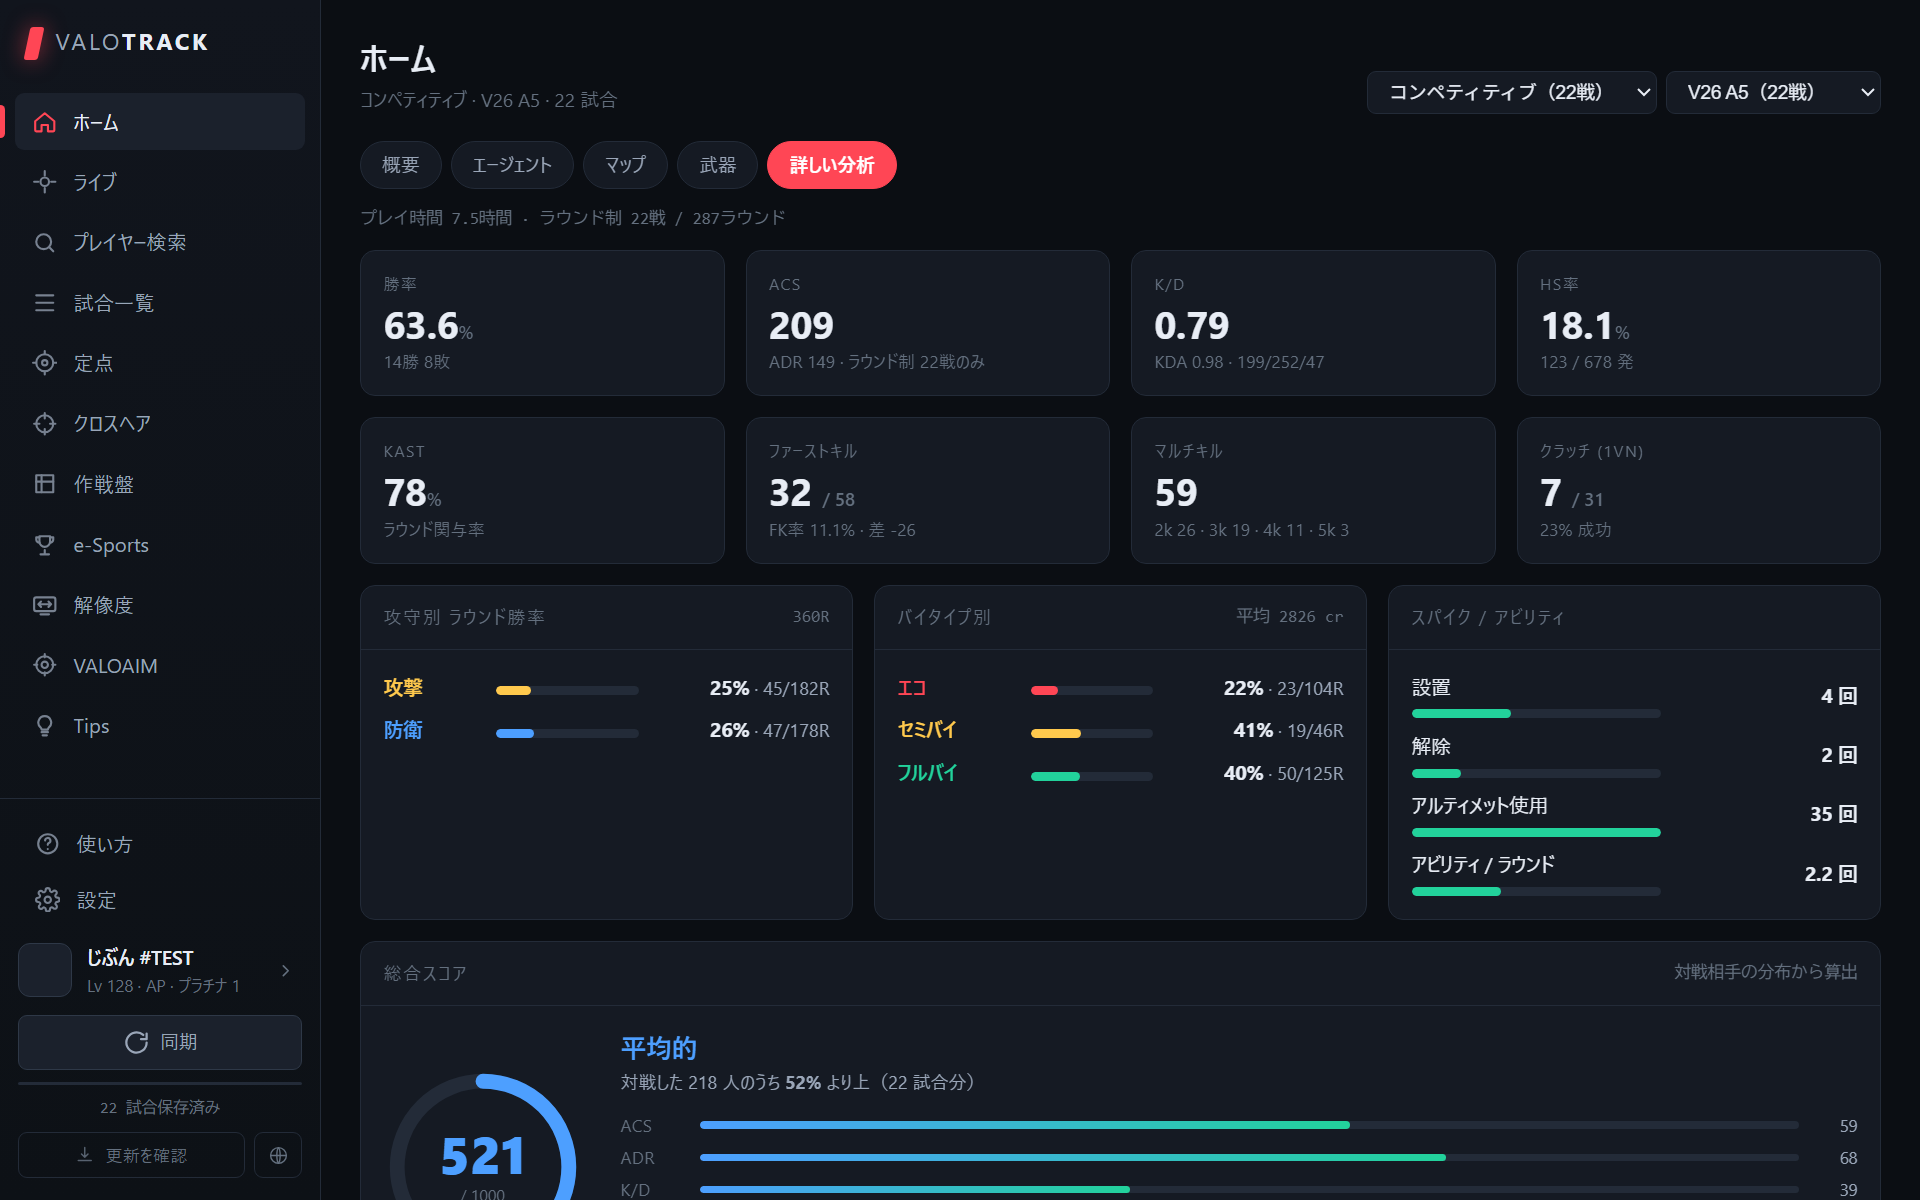
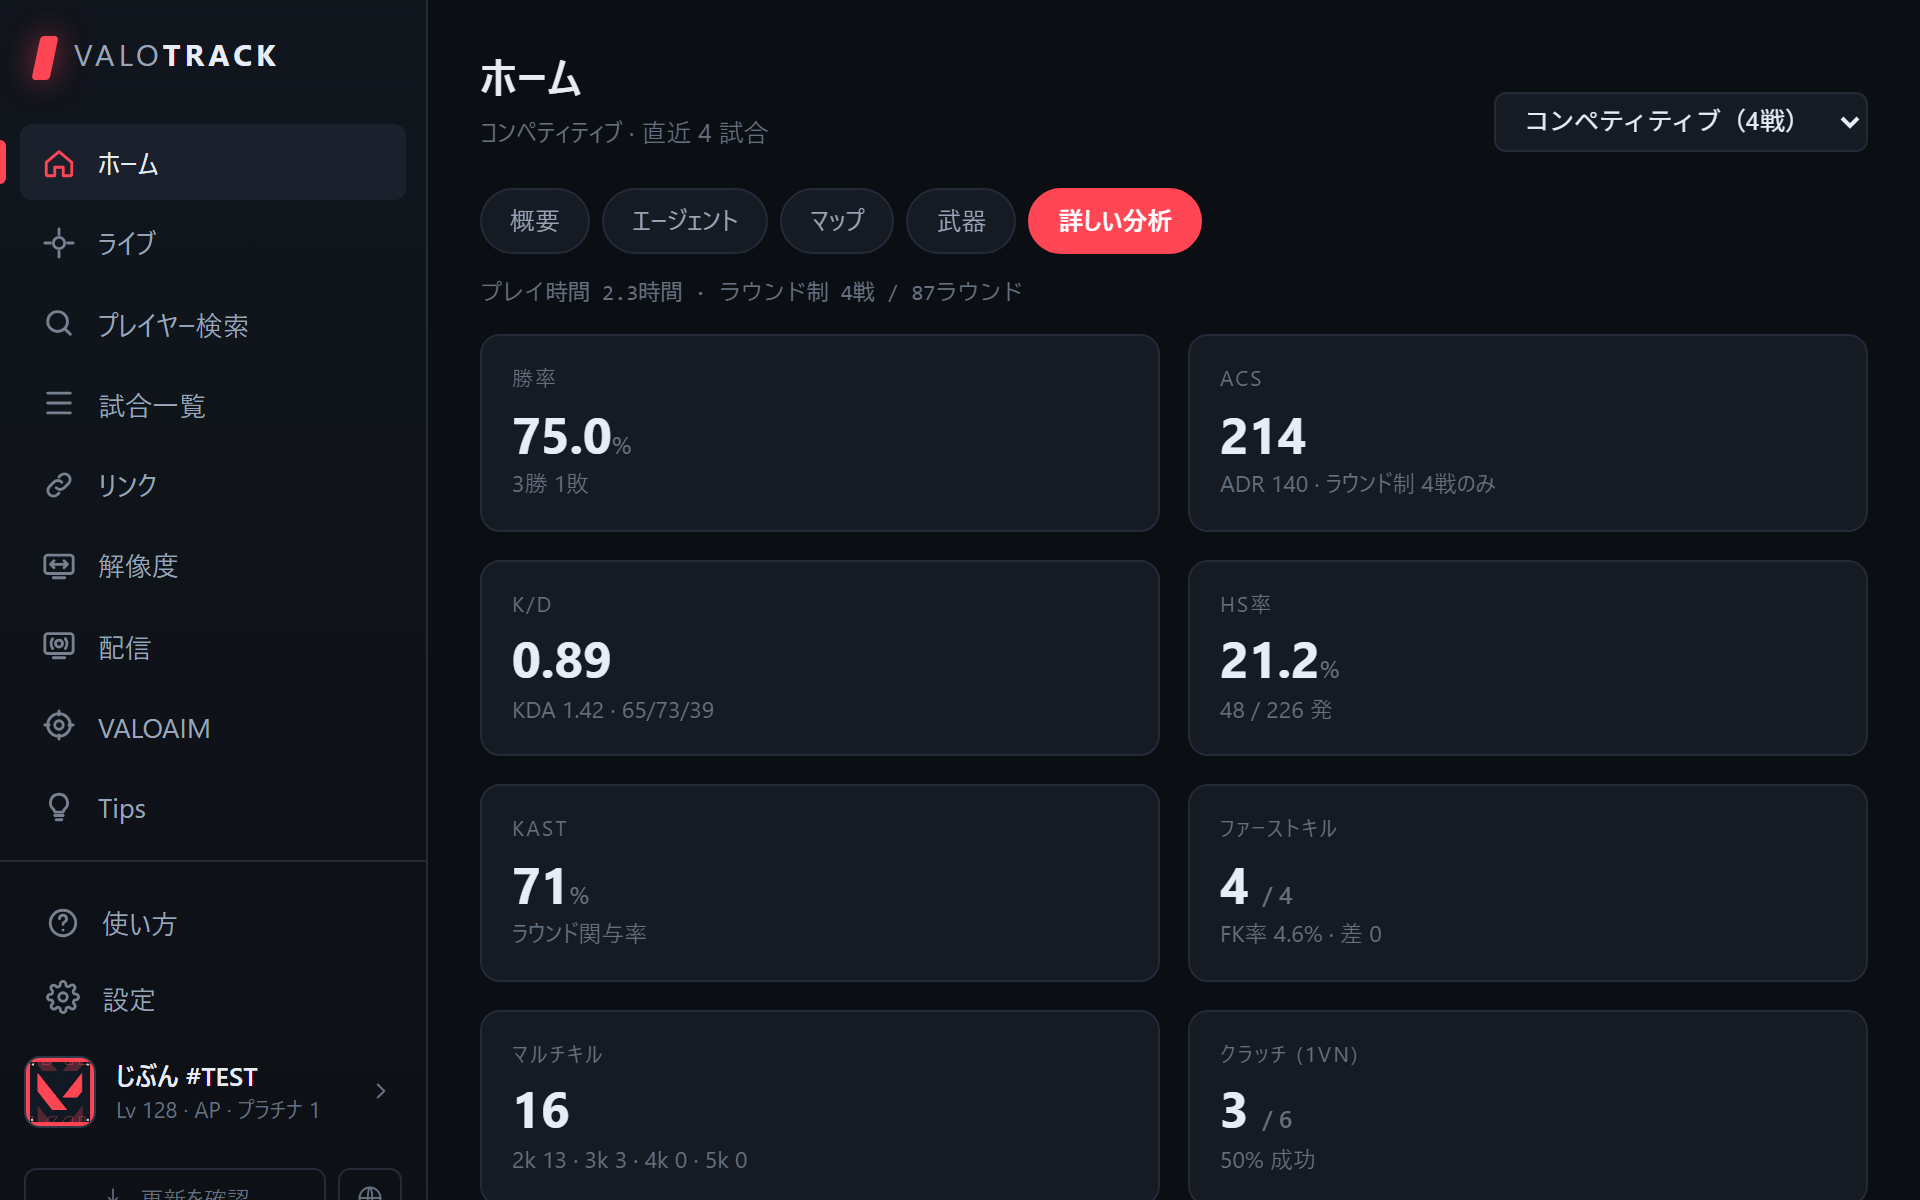
New screenshots (home, live, overlay, matches, detailed analysis, streaming, resolution; ja/en) and text updated for 2.24.3

diff --git a/docs/index.html b/docs/index.html
@@ -251,13 +251,13 @@ footer{border-top:1px solid var(--line);padding:30px 0 40px;color:var(--txt-3);f
         <div class="feat rv">
           <div class="ic"><svg viewBox="0 0 24 24"><path d="M3 12l9-8 9 8M5 10v10h14V10"/></svg></div>
           <h3><span lang="ja">ホームでまとめて確認</span><span lang="en">Everything on Home</span></h3>
-          <p><span lang="ja">ランクと RR、このセッションの成績、勝率・K/D・ACS・HS率。モードとアクトで絞り込めて、モードをまぜた数字は出しません。</span>
-             <span lang="en">Rank and RR, this session, win rate, K/D, ACS and HS%. Filter by mode and act — modes are never mixed together.</span></p>
+          <p><span lang="ja">ランクと RR、RR の推移、勝率・K/D・ACS・HS率。モードを選ぶと、そのモードの直近10試合で数えます（モードをまぜた数字は出しません）。</span>
+             <span lang="en">Rank and RR, your RR trend, win rate, K/D, ACS and HS%. Pick a mode and it counts that mode's last 10 matches — modes are never mixed together.</span></p>
         </div>
         <div class="feat rv">
           <div class="ic"><svg viewBox="0 0 24 24"><circle cx="12" cy="12" r="3"/><path d="M12 2v4M12 18v4M2 12h4M18 12h4"/></svg></div>
           <h3><span lang="ja">ライブ：試合中の全員</span><span lang="en">Live: everyone in your match</span></h3>
-          <p><span lang="ja">10 人の現ランク・最高ランク・直近の K/D や勝率、組んで来ているパーティまで。チームの平均も比べられます。</span>
+          <p><span lang="ja">10 人の現ランク・最高ランク・同じモードの直近10試合の K/D や勝率、組んで来ているパーティまで。チームの平均も比べられます。</span>
              <span lang="en">Current and peak rank, recent K/D and win rate for all 10 players, plus who is queuing together. Compare team averages at a glance.</span></p>
         </div>
         <div class="feat rv">
@@ -286,8 +286,8 @@ footer{border-top:1px solid var(--line);padding:30px 0 40px;color:var(--txt-3);f
         </div>
       </div>
       <p class="more rv">
-        <span lang="ja">ほかにも <b>定点</b>・<b>クロスヘア</b>・<b>作戦盤</b>・<b>プレイヤー検索</b>・<b>e-Sports</b>・<b>エイム練習（VALOAIM）</b> など。日本語 / English に対応。</span>
-        <span lang="en">Also <b>lineups</b>, <b>crosshairs</b>, a <b>strat board</b>, <b>player search</b>, <b>e-Sports</b> and an <b>aim trainer (VALOAIM)</b>. Available in Japanese and English.</span>
+        <span lang="ja">ほかにも <b>配信表示（OBS）</b>・<b>プレイヤー検索</b>・<b>エイム練習（VALOAIM）</b>、定点・クロスヘア・作戦盤・e-Sports のサイトへの<b>リンク</b>など。日本語 / English に対応。</span>
+        <span lang="en">Also a <b>stream overlay (OBS)</b>, <b>player search</b>, an <b>aim trainer (VALOAIM)</b>, and <b>links</b> to lineup, crosshair, strat board and esports sites. Available in Japanese and English.</span>
       </p>
     </div>
   </section>
@@ -303,7 +303,9 @@ footer{border-top:1px solid var(--line);padding:30px 0 40px;color:var(--txt-3);f
         <button data-shot="home"><span lang="ja">ホーム</span><span lang="en">Home</span></button>
         <button class="on" data-shot="live"><span lang="ja">ライブ</span><span lang="en">Live</span></button>
         <button data-shot="overlay"><span lang="ja">オーバーレイ</span><span lang="en">Overlay</span></button>
+        <button data-shot="matches"><span lang="ja">試合一覧</span><span lang="en">Matches</span></button>
         <button data-shot="stats"><span lang="ja">詳しい分析</span><span lang="en">Detailed analysis</span></button>
+        <button data-shot="obs"><span lang="ja">配信</span><span lang="en">Streaming</span></button>
         <button data-shot="stretch"><span lang="ja">解像度</span><span lang="en">Resolution</span></button>
       </div>
       <div class="shot rv">
@@ -384,8 +386,8 @@ footer{border-top:1px solid var(--line);padding:30px 0 40px;color:var(--txt-3);f
         </details>
         <details class="rv">
           <summary><span lang="ja">戦績のデータはどこに保存されますか？</span><span lang="en">Where is my data stored?</span></summary>
-          <p><span lang="ja">自分の PC の中だけです。VALOTRACK 独自のサーバーはなく、戦績をどこかへ送ることもありません。</span>
-             <span lang="en">Only on your own PC. VALOTRACK has no servers of its own and does not upload your stats anywhere.</span></p>
+          <p><span lang="ja">自分の PC の中だけです。VALOTRACK 独自のサーバーはなく、戦績をどこかへ送ることもありません。前の試合の記録は起動のたびに消して、Riot から取り直します。</span>
+             <span lang="en">Only on your own PC. VALOTRACK has no servers of its own and does not upload your stats anywhere. Previous match records are cleared on every start and fetched again from Riot.</span></p>
         </details>
         <details class="rv">
           <summary><span lang="ja">ゲームやアカウントに影響はありますか？</span><span lang="en">Does it touch the game or my account?</span></summary>
@@ -399,8 +401,8 @@ footer{border-top:1px solid var(--line);padding:30px 0 40px;color:var(--txt-3);f
         </details>
         <details class="rv">
           <summary><span lang="ja">前の版に戻したいです</span><span lang="en">I want to go back to an older version</span></summary>
-          <p><span lang="ja"><a href="https://github.com/rilfyin/VALOTRACK/releases" target="_blank" rel="noopener">リリースの一覧</a>から、前の版のインストーラーを入れ直してください。保存してある戦績はそのまま残ります。</span>
-             <span lang="en">Reinstall an older installer from the <a href="https://github.com/rilfyin/VALOTRACK/releases" target="_blank" rel="noopener">releases page</a>. Your saved stats stay as they are.</span></p>
+          <p><span lang="ja"><a href="https://github.com/rilfyin/VALOTRACK/releases" target="_blank" rel="noopener">リリースの一覧</a>から、前の版のインストーラーを入れ直してください。</span>
+             <span lang="en">Reinstall an older installer from the <a href="https://github.com/rilfyin/VALOTRACK/releases" target="_blank" rel="noopener">releases page</a>.</span></p>
         </details>
       </div>
     </div>
@@ -453,10 +455,12 @@ footer{border-top:1px solid var(--line);padding:30px 0 40px;color:var(--txt-3);f
   } catch (e) { }
 
   var CAPS = {
-    home:    { ja: 'ランク・このセッション・勝率などをひと目で。モードとアクトで絞り込めます。', en: 'Rank, this session and win rate at a glance, filtered by mode and act.' },
+    home:    { ja: 'ランク・RR の推移・勝率などをひと目で。モードごとの直近10試合で数えます。', en: 'Rank, RR trend and win rate at a glance, counted from each mode\'s last 10 matches.' },
     live:    { ja: '試合中の10人のランク・最高ランク・直近の成績。パーティも分かります。', en: 'Rank, peak rank and recent form for all 10 players, including parties.' },
     overlay: { ja: 'エージェント選択中だけ、ゲーム画面の上に味方の戦績を出します。', en: 'Shown over the game during agent select only, with your teammates’ stats.' },
+    matches: { ja: 'モードを選ぶと、そのモードの直近10試合。行を開くとその試合の要約が出ます。', en: 'Pick a mode to see its last 10 matches. Open a row for that match\'s summary.' },
     stats:   { ja: '攻守別・バイタイプ別の勝率、対戦相手との比較など。', en: 'Attack vs defense, buy types, and how you compare with the players you face.' },
+    obs:     { ja: 'OBS などの配信画面に、ランクと今回の戦績を出します。RR の増減も動きで見せます。', en: 'Show your rank and session record on stream (OBS etc.), with animated RR changes.' },
     stretch: { ja: '引き伸ばし解像度の切り替え。VALORANT の起動・終了に合わせて自動でも。', en: 'Switch to stretched resolution — automatically when VALORANT starts and exits, too.' }
   };
   var cur = 'live';

diff --git a/README.md b/README.md
@@ -23,28 +23,34 @@ A free VALORANT stats tracker that runs on your Windows PC.
 ## できること
 
 - **ピック中のオーバーレイ** … エージェント選択の間だけ、味方のランク・K/D・ACS・HS率・勝率をゲーム画面の上に表示。試合が始まれば自動で消えます
-- **ライブ** … 試合中の10人全員の現ランク・最高ランク・直近の成績、組んで来ているパーティ
-- **ホーム** … ランクと RR、このセッションの成績、勝率・K/D・ACS・HS率。モードとアクトで絞り込み（モードはまぜません）
+- **ライブ** … 試合中の10人全員の現ランク・最高ランク・同じモードの直近10試合の成績、組んで来ているパーティ
+- **ホーム** … ランクと RR、RR の推移、勝率・K/D・ACS・HS率。モードを選ぶと、そのモードの直近10試合で数えます（モードはまぜません）
+- **試合一覧** … モードごとの直近10試合。行を開くとその試合の要約
 - **試合のふりかえり** … ふだんの自分と比べて、直すことと、できていたことを具体的に
 - **引き伸ばし解像度** … ワンクリックで切り替え。VALORANT の起動・終了に合わせて自動でも。彩度も一緒に
+- **配信表示（OBS）** … ランクと今回の戦績を配信画面に。RR の増減は動きで、パーティコードも出せます
 - **Discord 表示** … モード・マップ・スコア・ランクをプロフィールに
-- ほかにも 定点・クロスヘア・作戦盤・プレイヤー検索・e-Sports・エイム練習（VALOAIM）など。日本語 / English 対応
+- ほかにも プレイヤー検索・エイム練習（VALOAIM）、定点・クロスヘア・作戦盤・e-Sports のサイトへのリンクなど。日本語 / English 対応
+
+| ホーム | ライブ | 配信表示 |
+|---|---|---|
+| ![ホーム](docs/img/home-ja.png) | ![ライブ](docs/img/live-ja.png) | ![配信](docs/img/obs-ja.png) |
 
 ## 入れ方
 
 1. [VALOTRACK-Setup.exe](https://rilfyin.github.io/VALOTRACK/VALOTRACK-Setup.exe) をダウンロード
 2. 実行する（「Windows によって PC が保護されました」と出たら「詳細情報」→「実行」。署名の無い個人製作のアプリのため出ます）
-3. Riot クライアントにログインした状態で VALOTRACK を開く
+3. Riot クライアントにログインした状態で VALOTRACK を開く（初めての時は利用規約への同意が必要です）
 
 **動作環境:** Windows 10 / 11（64 bit）· Microsoft Edge WebView2（Windows 11 は標準）· Riot クライアント
 
-新しい版が出ると、アプリが自動で知らせます。前の版に戻したい時は [Releases](https://github.com/rilfyin/VALOTRACK/releases) から入れ直してください（保存してある戦績はそのまま残ります）。
+新しい版が出ると、アプリが自動で知らせます。前の版に戻したい時は [Releases](https://github.com/rilfyin/VALOTRACK/releases) から入れ直してください。
 
 ## よくある質問
 
 **無料ですか？** はい。
 
-**データはどこに保存されますか？** 自分の PC の中だけです。VALOTRACK 独自のサーバーはなく、戦績をどこかへ送ることもありません。
+**データはどこに保存されますか？** 自分の PC の中だけです。VALOTRACK 独自のサーバーはなく、戦績をどこかへ送ることもありません。前の試合の記録は起動のたびに消して、Riot から取り直します。
 
 **ゲームやアカウントに影響はありますか？** ゲームのファイルやメモリには触れず、Riot クライアントが PC の中で使っている情報を読み取るだけです（解像度タブを使った時だけ、VALORANT の設定ファイルの解像度を書き換えます）。ただし Riot Games 公式のツールではなく、Riot の利用規約は許可されていない他社製プログラムの使用を禁止しています。アカウントに処置を受ける可能性もあるため、ご利用は自己責任でお願いします（上の注意書きを参照）。
 
